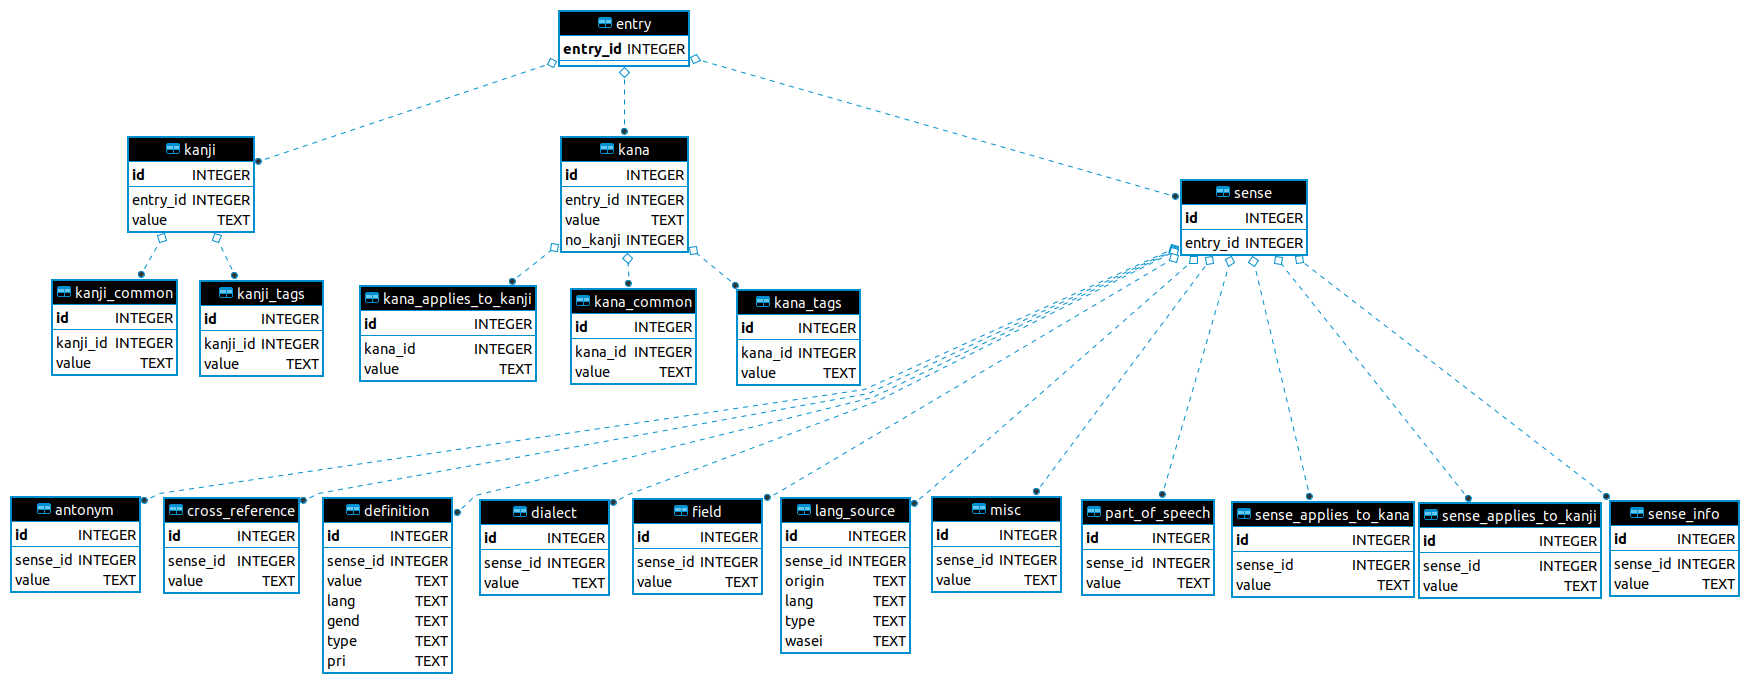
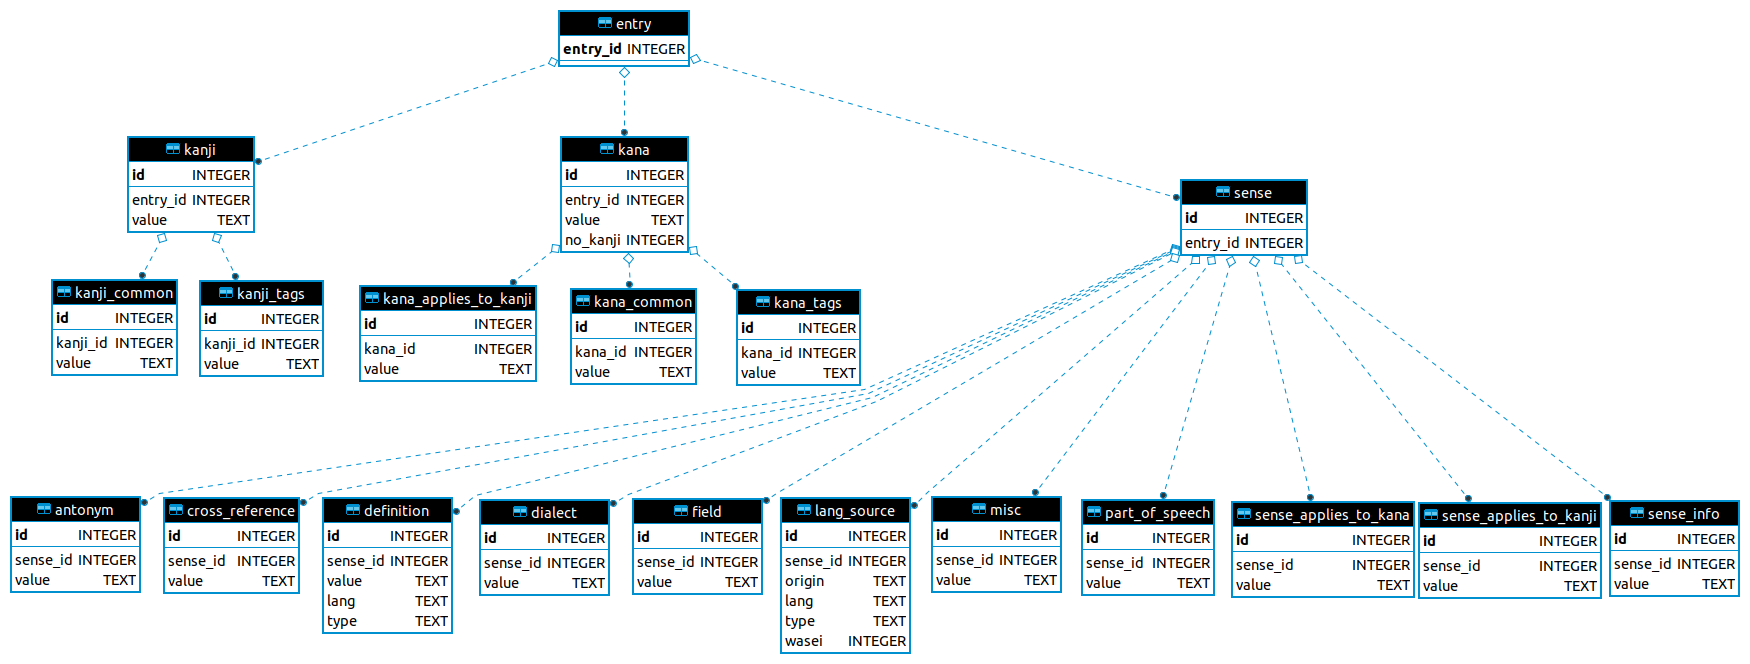
ER Diagram Update

diff --git a/db_creator.py b/db_creator.py
@@ -61,7 +61,7 @@ def insert_data_sql(table_name):
         'misc': ''' INSERT INTO misc(sense_id, value) VALUES(?, ?) ''',
         'lsource': ''' INSERT INTO lang_source(sense_id, origin, lang, type, wasei) VALUES(?, ?, ?, ?, ?) ''',
         'dial': ''' INSERT INTO dialect(sense_id, value) VALUES(?, ?) ''',
-        'gloss': ''' INSERT INTO definition(sense_id, value, lang, gend, type) VALUES(?, ?, ?, ?, ?) ''',
+        'gloss': ''' INSERT INTO definition(sense_id, value, lang, type) VALUES(?, ?, ?, ?) ''',
         's_inf': ''' INSERT INTO sense_info(sense_id, value) VALUES(?, ?) '''
 
     }.get(table_name, "TABLE_NOT_FOUND")
@@ -236,7 +236,7 @@ def create_database():
                                         origin text,
                                         lang TEXT,
                                         type TEXT,
-                                        wasei TEXT,
+                                        wasei INTEGER,
 
                                         FOREIGN KEY(sense_id) REFERENCES sense(id)
 
@@ -256,9 +256,7 @@ def create_database():
                                         sense_id INTEGER,
                                         value TEXT,
                                         lang TEXT,
-                                        gend TEXT,
                                         type TEXT,
-                                        pri TEXT,
 
 
                                         FOREIGN KEY(sense_id) REFERENCES sense(id)

diff --git a/xml_parser.py b/xml_parser.py
@@ -145,7 +145,9 @@ for entry in root.findall('entry'):
             # Japanese word constructed from words in source language
             ls_wasei = lsource.get('ls_wasei')
             if(ls_wasei is None):
-                ls_wasei = "n"
+                ls_wasei = 0
+            else:
+                ls_wasei = 1
 
             lsource_data.append((sense_id, origin, lang, ls_type, ls_wasei))
 
@@ -162,13 +164,10 @@ for entry in root.findall('entry'):
             # definition language
             lang = gloss.get('{http://www.w3.org/XML/1998/namespace}lang')
 
-            # definition gender
-            g_gend = gloss.get('g_gend')
-
             # definition type (e.g. 'lit' (literal), 'fig' (figurative), etc)
             g_type = gloss.get('g_type')
 
-            gloss_data.append((sense_id, definition, lang, g_gend, g_type))
+            gloss_data.append((sense_id, definition, lang, g_type))
 
             gloss_id += 1
 
